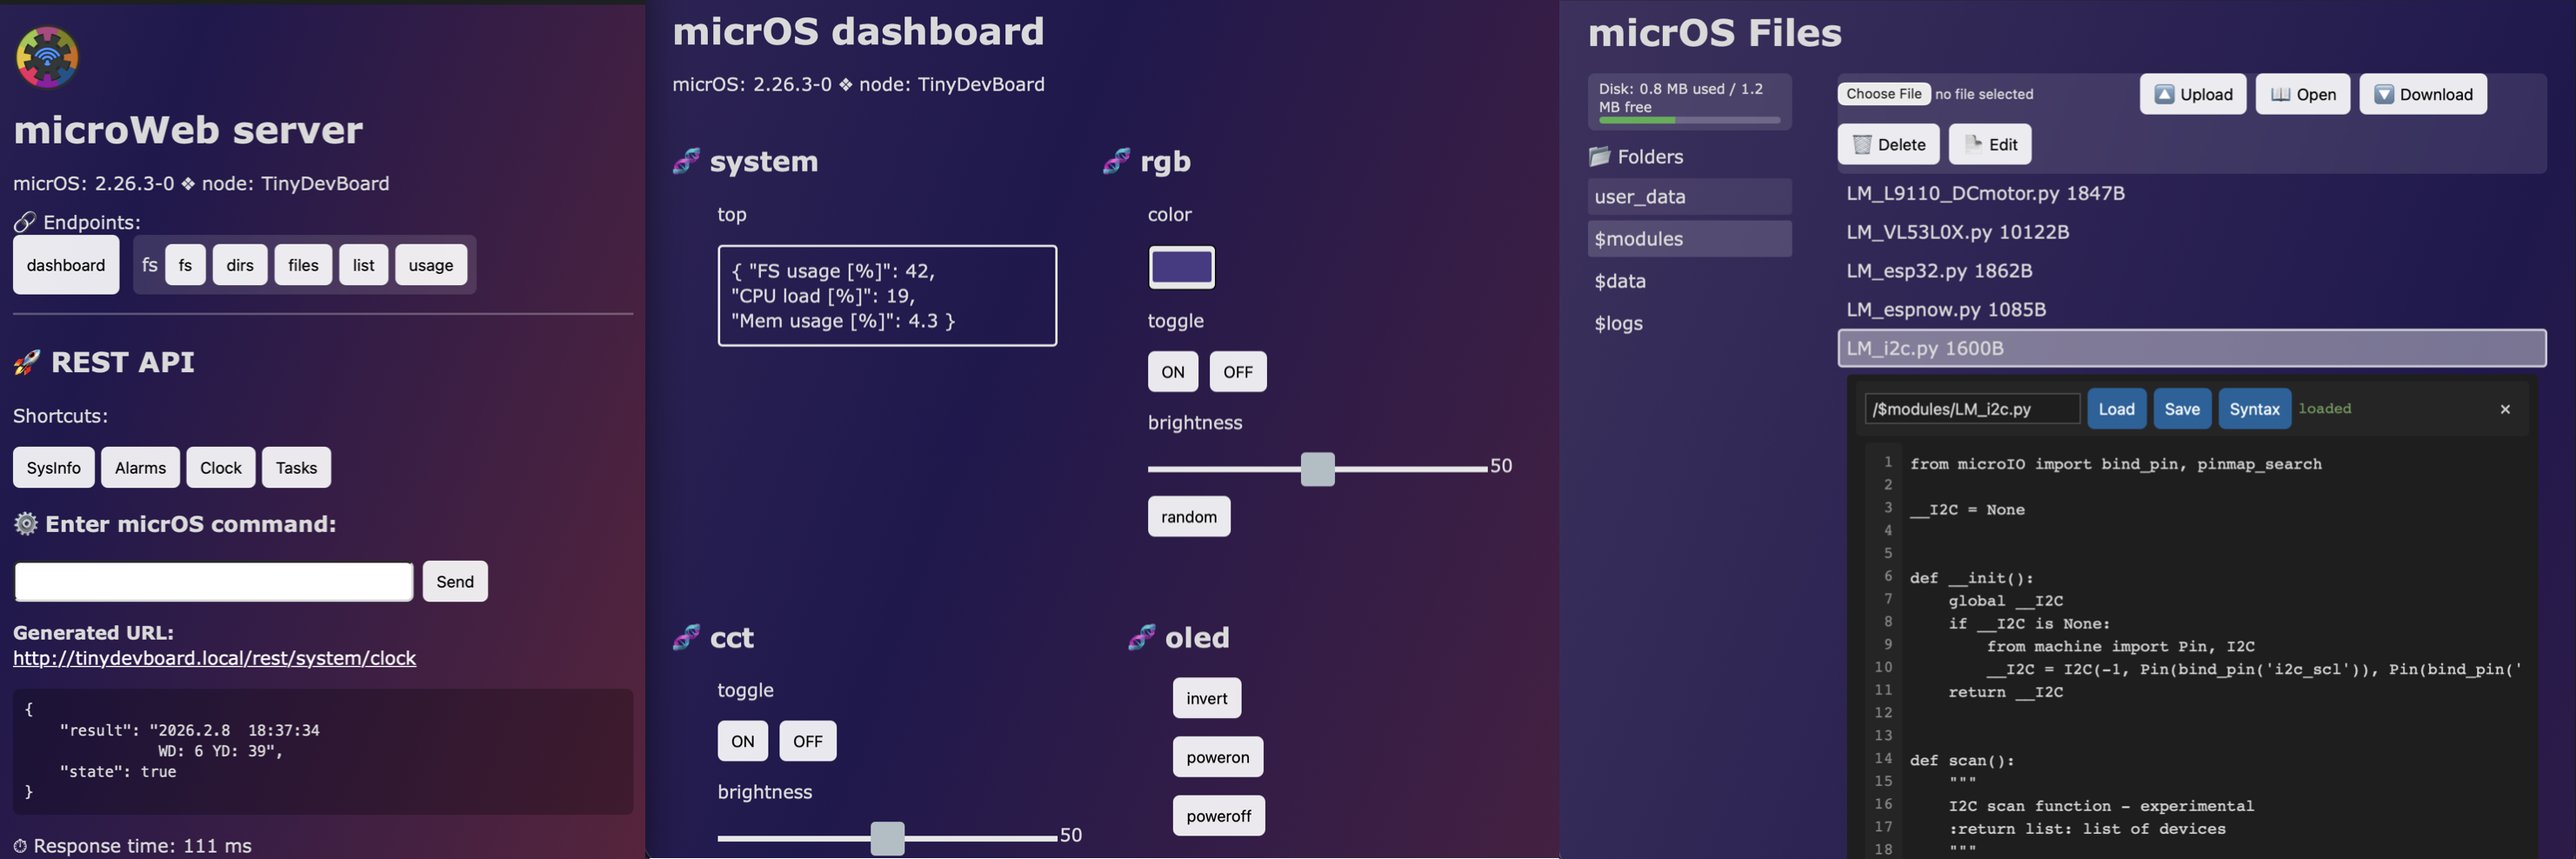
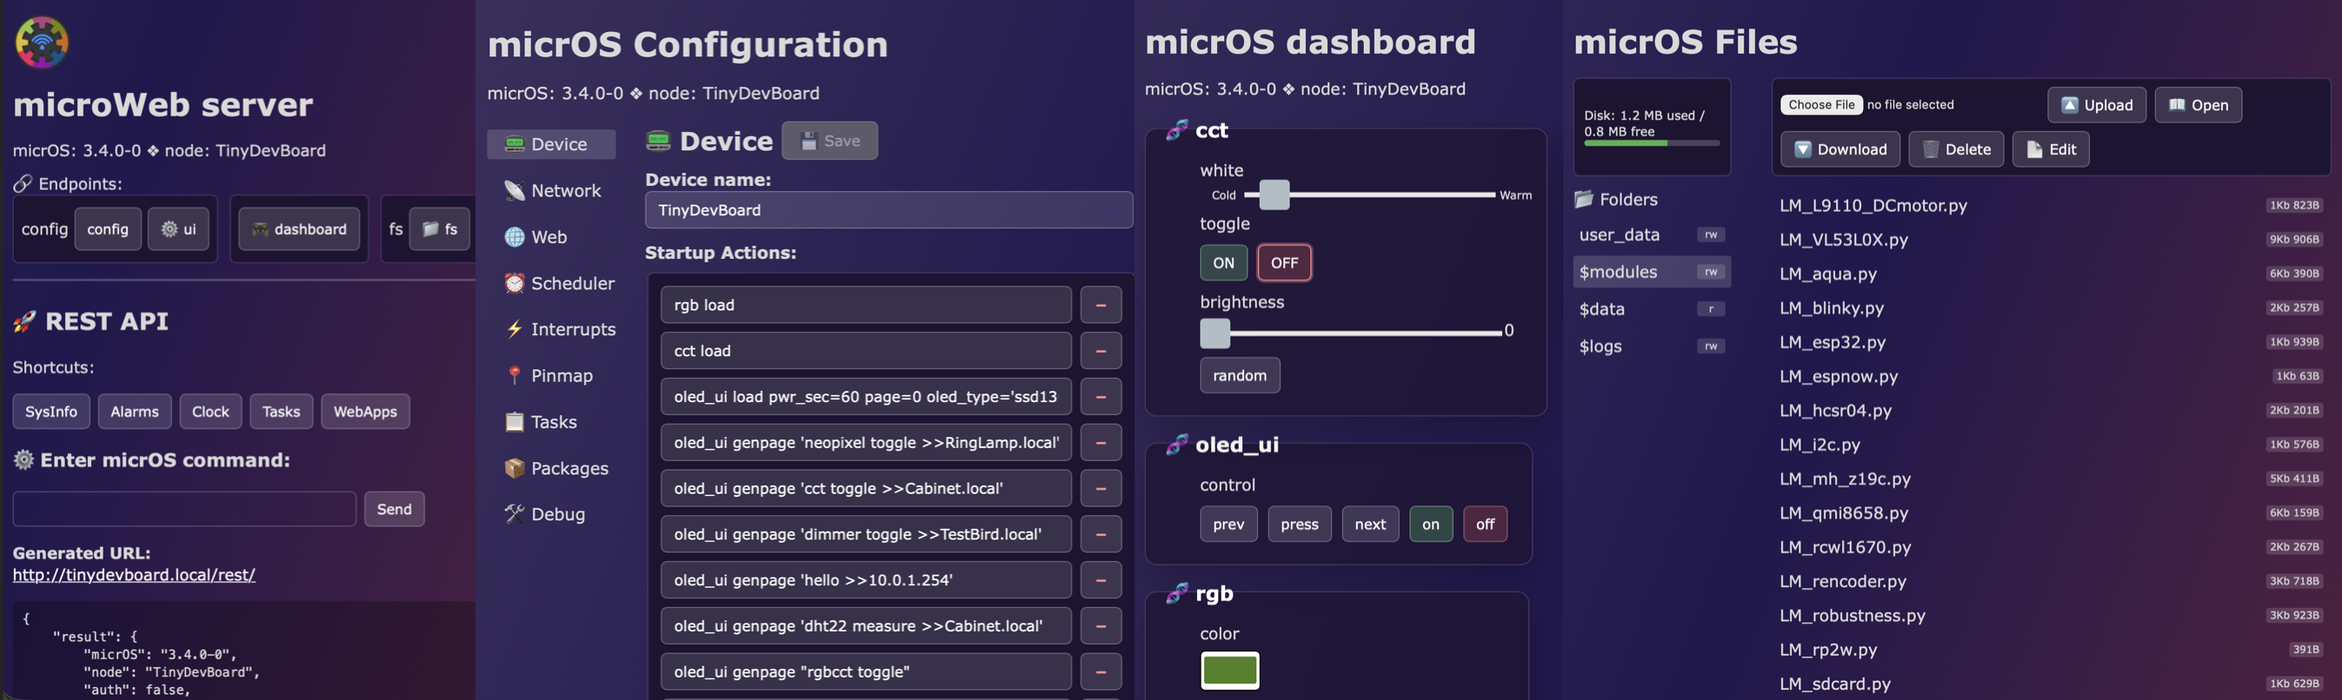
Doc update

diff --git a/README.md b/README.md
@@ -49,9 +49,6 @@ Thanks for ![GitHub stars](https://img.shields.io/github/stars/BxNxM/micrOS), fo
 In case of any technical comments or requests, please use [![GitHub Discussions](https://img.shields.io/badge/GitHub-Discussions-green?logo=github&style=flat)](https://github.com/BxNxM/micrOS/discussions).
 
 ![MICROSVISUALIZATION](./media/micrOS_welcome.png?raw=true)
-[![SHORTCUTS](./media/micrOS_shortcuts.png)](https://www.icloud.com/shortcuts/898c2a8033d64ff0b7aadc46ee491a35)<br/>
-Example shortcut (usage of the API): [link](https://www.icloud.com/shortcuts/fab936abb34b45b5bda4c9f7abb256e9)<br/>
-Access rest api over browser: `http://<nodename>.local`
 
 ----------------------------------------
 ----------------------------------------
@@ -73,7 +70,7 @@ Access rest api over browser: `http://<nodename>.local`
 🚀🎈Lightweight and high performance core system that leaves you space 😎
 
 ## ◉ Shortcuts:
-1. 📲 micrOS Client Application [link](https://github.com/BxNxM/micrOS/#micros-client-application) - obsolete, use micrOS built-in webui instead.
+1. 📲 micrOS Clients [link](https://github.com/BxNxM/micrOS/#micros-clients)
 2. micrOS Installer [link](https://github.com/BxNxM/micrOS/#installing-micros-with-devtoolkit-esp32-and-more)
 3. ▶ micrOS Tutorials [link](https://github.com/BxNxM/micrOS/#micros-video-tutorials)
 4. micrOS System and features [link](https://github.com/BxNxM/micrOS/#micros-framework-features)
@@ -92,9 +89,17 @@ Access rest api over browser: `http://<nodename>.local`
 ----------------------------------------
 ----------------------------------------
 
-## micrOS Client Application
+## micrOS Clients
+
+### Applications (obsolete)
 
 [![AppStore](./media/store/AppStoreBadge.svg)](https://apps.apple.com/hu/app/micros-client/id1562342296) &nbsp;&nbsp;&nbsp;&nbsp;&nbsp;&nbsp;&nbsp; [![AppStore](./media/store/GooglePlayBadge.png)](https://play.google.com/store/apps/details?id=com.BMT.micrOSClient)
+
+### micrOS on-device web UI
+
+![MICROSWEB](./media/lms/web.png?raw=true)
+
+Access it over browser: `http://<nodename>.local`
 
 ----------------------------------------
 ----------------------------------------
